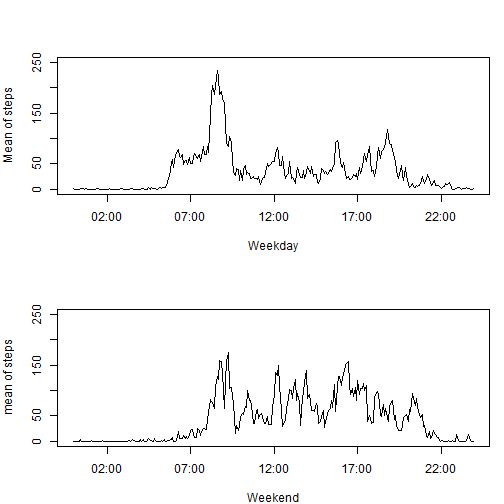
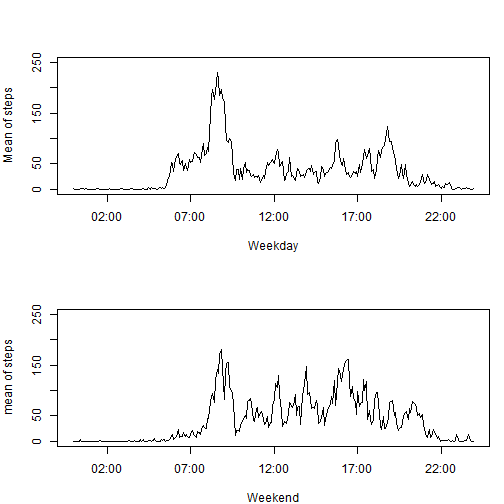
Latest commit to assignment

diff --git a/PA1_template.html b/PA1_template.html
@@ -258,7 +258,7 @@ stepmedian
 
[1 lines of base64/hex data omitted]
 
-<p>##Most steps taken during the inrerval from:</p>
+<p>##Most steps taken during the inrerval:</p>
 
 <pre><code class="r">byinterval[which(byinterval$mean ==max(byinterval$mean)), ]
 </code></pre>
@@ -283,17 +283,33 @@ plot(x = byinterval$interval, y = byinterval$mean,type = &quot;l&quot;,main = &q
 
 <h2>Imputing missing values</h2>
 
-<pre><code class="r">#I haven&#39;t done yet
+<pre><code class="r">#funtion to fill na&#39;s with the mean of the values of that interval
+fillna &lt;- function(dframe){
+        count &lt;- 1
+        for(i in dframe$steps){
+                if(is.na(i)){
+                        row &lt;- dframe[count,]
+                       thisinter &lt;-format(row$interval,format = &quot;%H:%M&quot;)
+                       thisinter &lt;- as.POSIXct(thisinter, format = &quot;%H:%M&quot;)
+                      meanvalue&lt;- byinterval[which(byinterval$interval == thisinter),2]
+                      dframe[count,1] &lt;-meanvalue
+                       count &lt;- count+1
+                }
+        }
+        dframe
+}
+
+activity &lt;- fillna(activity)
 </code></pre>
 
 <h2>Are there differences in activity patterns between weekdays and weekends?</h2>
 
-<pre><code class="r">newactivity &lt;- activity
-newactivity$day &lt;- &quot;weekday&quot;
-weekend &lt;-weekdays(newactivity$date) == &quot;sunnuntai&quot; | weekdays(newactivity$date) == &quot;lauantai&quot;
-newactivity[weekend,]$day &lt;- &quot;weekend&quot;
-weekdays &lt;- newactivity[newactivity$day == &quot;weekday&quot;,]
-weekends &lt;- newactivity[newactivity$day == &quot;weekend&quot;,]
+<pre><code class="r">#Plots made after filling the NA values
+activity$day &lt;- &quot;weekday&quot;
+weekend &lt;-weekdays(activity$date) == &quot;sunnuntai&quot; | weekdays(activity$date) == &quot;lauantai&quot;
+activity[weekend,]$day &lt;- &quot;weekend&quot;
+weekdays &lt;- activity[activity$day == &quot;weekday&quot;,]
+weekends &lt;- activity[activity$day == &quot;weekend&quot;,]
 
 weekdaysinterval &lt;- group_by(weekdays,interval)
 weekdaysinterval &lt;- summarise(weekdaysinterval, mean = mean(steps,na.rm=T))
@@ -308,7 +324,7 @@ weekendinterval &lt;- summarise(weekendinterval, mean = mean(steps,na.rm=T))
 plot(weekendinterval$interval,weekendinterval$mean,ylim = c(0,250),type = &quot;l&quot;,xlab = &quot;Weekend&quot;,ylab = &quot;mean of steps&quot;)
 </code></pre>
 
[2 lines of base64/hex data omitted]
 
 </body>
 

diff --git a/PA1_template.md b/PA1_template.md
@@ -66,7 +66,7 @@ hist(bydate$steps,breaks = 50,main = "Hstogram of steps taken per day",xlab = "S
 
 ![plot of chunk unnamed-chunk-4](figure/unnamed-chunk-4-1.png) 
 
-##Most steps taken during the inrerval from:
+##Most steps taken during the inrerval:
 
 ```r
 byinterval[which(byinterval$mean ==max(byinterval$mean)), ]
@@ -95,18 +95,34 @@ plot(x = byinterval$interval, y = byinterval$mean,type = "l",main = "Daily activ
 ## Imputing missing values
 
 ```r
-#I haven't done yet
+#funtion to fill na's with the mean of the values of that interval
+fillna <- function(dframe){
+        count <- 1
+        for(i in dframe$steps){
+                if(is.na(i)){
+                        row <- dframe[count,]
+                       thisinter <-format(row$interval,format = "%H:%M")
+                       thisinter <- as.POSIXct(thisinter, format = "%H:%M")
+                      meanvalue<- byinterval[which(byinterval$interval == thisinter),2]
+                      dframe[count,1] <-meanvalue
+                       count <- count+1
+                }
+        }
+        dframe
+}
+
+activity <- fillna(activity)
 ```
 
 ## Are there differences in activity patterns between weekdays and weekends?
 
 ```r
-newactivity <- activity
-newactivity$day <- "weekday"
-weekend <-weekdays(newactivity$date) == "sunnuntai" | weekdays(newactivity$date) == "lauantai"
-newactivity[weekend,]$day <- "weekend"
-weekdays <- newactivity[newactivity$day == "weekday",]
-weekends <- newactivity[newactivity$day == "weekend",]
+#Plots made after filling the NA values
+activity$day <- "weekday"
+weekend <-weekdays(activity$date) == "sunnuntai" | weekdays(activity$date) == "lauantai"
+activity[weekend,]$day <- "weekend"
+weekdays <- activity[activity$day == "weekday",]
+weekends <- activity[activity$day == "weekend",]
 
 weekdaysinterval <- group_by(weekdays,interval)
 weekdaysinterval <- summarise(weekdaysinterval, mean = mean(steps,na.rm=T))
